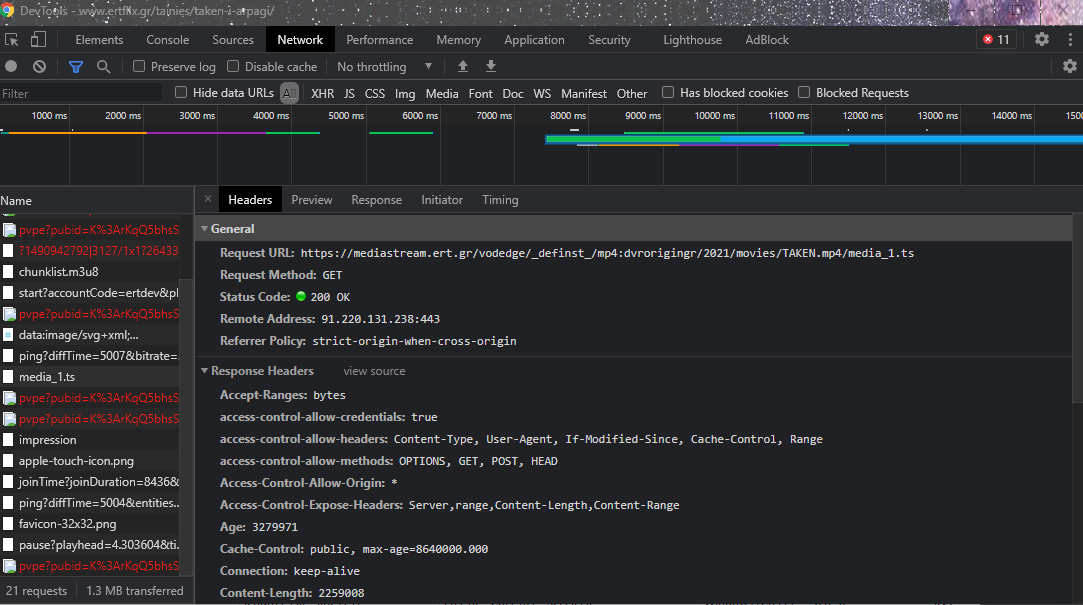
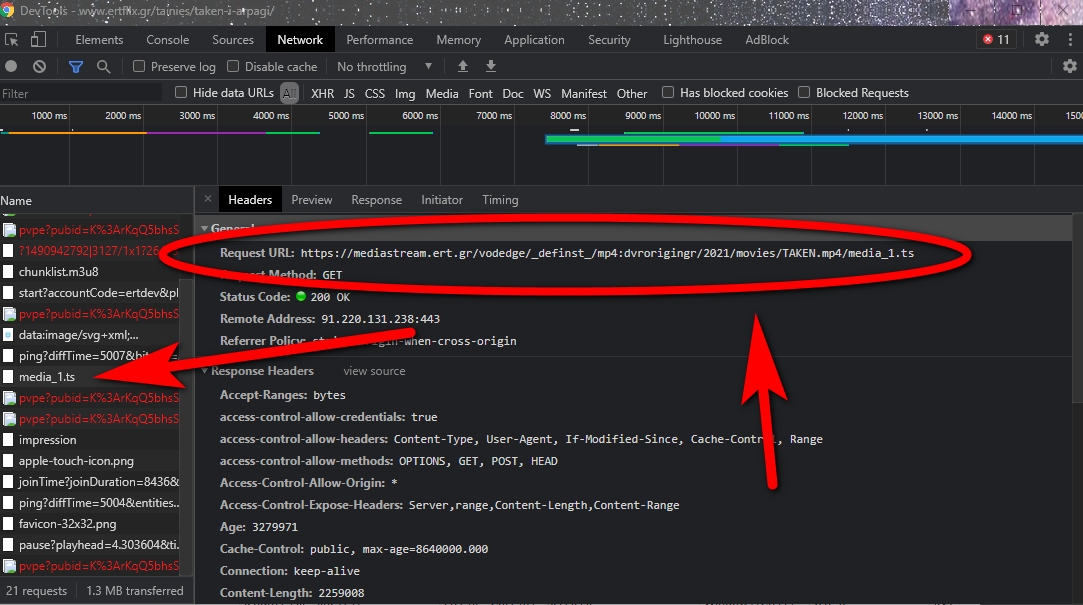
Readme updated

Changed region(s): [[0.1524, 0.3273, 0.9141, 0.5058], [0.0914, 0.5355, 0.3961, 0.6545], [0.6704, 0.5355, 0.7313, 0.8033]]

diff --git a/README.md b/README.md
@@ -1,1 +1,26 @@
-"# ertflix_download" 
+# Testing a way to download content from
+![alt text](https://www.ertflix.gr/wp-content/uploads/2014/05/ertflix-logo_webx25.png)
+
+```
+Find content you like-> Inspect element -> Network tab
+```
+```
+Find media_1.ts -> Get the Request url and place it on .py file
+```
+![alt text](https://raw.githubusercontent.com/vagmark30/ertflix_download/main/erflixDownloadStart.png)
+```
+Go on the last second of the content to get the last part of media_*.ts
+```
+![alt text](https://raw.githubusercontent.com/vagmark30/ertflix_download/main/ertflixDownloadEnd.png)
+
+
+## ______________________________________________
+```
+Let the for loop do its magic
+```
+```
+*Hint 1 - You better break the 'for loop' parts into smaller ones
+```
+```
+*Hint 2 - Use windows media player to play as smooth as possible the content as a list or use video editor to megre the files
+```
